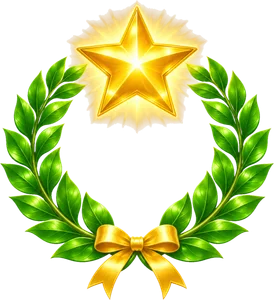
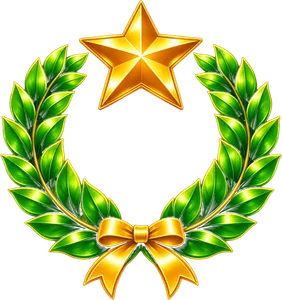
feat(web): Professor Maple's poses, his portrait, and the new winning crest

diff --git a/apps/web/src/art/chosen.ts b/apps/web/src/art/chosen.ts
@@ -13,6 +13,8 @@ import puff from '../assets/art/dust-puff.webp'
 import parchment from '../assets/art/tex-parchment.webp'
 import stone from '../assets/art/tex-stone.webp'
 import type { ArtSet } from './ArtContext.js'
+import { MAPLE_POSES } from './poses.js'
+import type { MaplePose } from './poses.js'
 
 /**
  * Art that may not exist yet. A glob matches nothing rather than failing the
@@ -25,6 +27,15 @@ const optional = import.meta.glob(['../assets/art/crest-*.webp', '../assets/art/
 }) as Record<string, string>
 const maybe = (name: string) => optional[`../assets/art/${name}.webp`] ?? null
 
+/** Professor Maple: every pose `art.mjs` made, by name. */
+const mapleArt = import.meta.glob('../assets/art/maple-*.webp', {
+  eager: true,
+  query: '?url',
+  import: 'default',
+}) as Record<string, string>
+const maplePose = (name: string) => mapleArt[`../assets/art/maple-${name}.webp`]
+const maple = Object.fromEntries(MAPLE_POSES.map((pose) => [pose, maplePose(pose)])) as Record<MaplePose, string>
+
 export const CHOSEN_ART: ArtSet = {
   bg,
   bgOverlay,
@@ -33,6 +44,8 @@ export const CHOSEN_ART: ArtSet = {
   plate: { you: maybe('plate-you'), opponent: maybe('plate-opponent') },
   avatarYou,
   avatarOpponent,
+  maple,
+  mapleAvatar: maplePose('avatar'),
   stone,
   parchment,
   coin,

diff --git a/apps/web/src/art/ArtContext.tsx b/apps/web/src/art/ArtContext.tsx
@@ -1,6 +1,7 @@
 import { createContext, useContext } from 'react'
 import type { ReactNode } from 'react'
 import { CHOSEN_ART } from './chosen.js'
+import type { MaplePose } from './poses.js'
 
 export type GameResult = 'win' | 'lose' | 'draw'
 
@@ -16,6 +17,9 @@ export type ArtSet = {
   plate: { you: string | null; opponent: string | null }
   avatarYou: string
   avatarOpponent: string
+  /** The tutorial's teacher: a bust per pose, and his round seat at the top of the table. */
+  maple: Record<MaplePose, string>
+  mapleAvatar: string
   stone: string
   parchment: string
   coin: string

diff --git a/apps/web/src/art/poses.ts b/apps/web/src/art/poses.ts
@@ -1,0 +1,18 @@
+/**
+ * Professor Maple's poses, one per kind of thing he talks about, as
+ * `apps/web/scripts/art.mjs` makes them from `designs/art/maple/`.
+ */
+export const MAPLE_POSES = [
+  'explaining',
+  'thumbs-up',
+  'portrait',
+  'scroll',
+  'thinking',
+  'cards',
+  'feast',
+  'magnifier',
+  'coin',
+  'surprised',
+  'welcoming',
+] as const
+export type MaplePose = (typeof MAPLE_POSES)[number]
